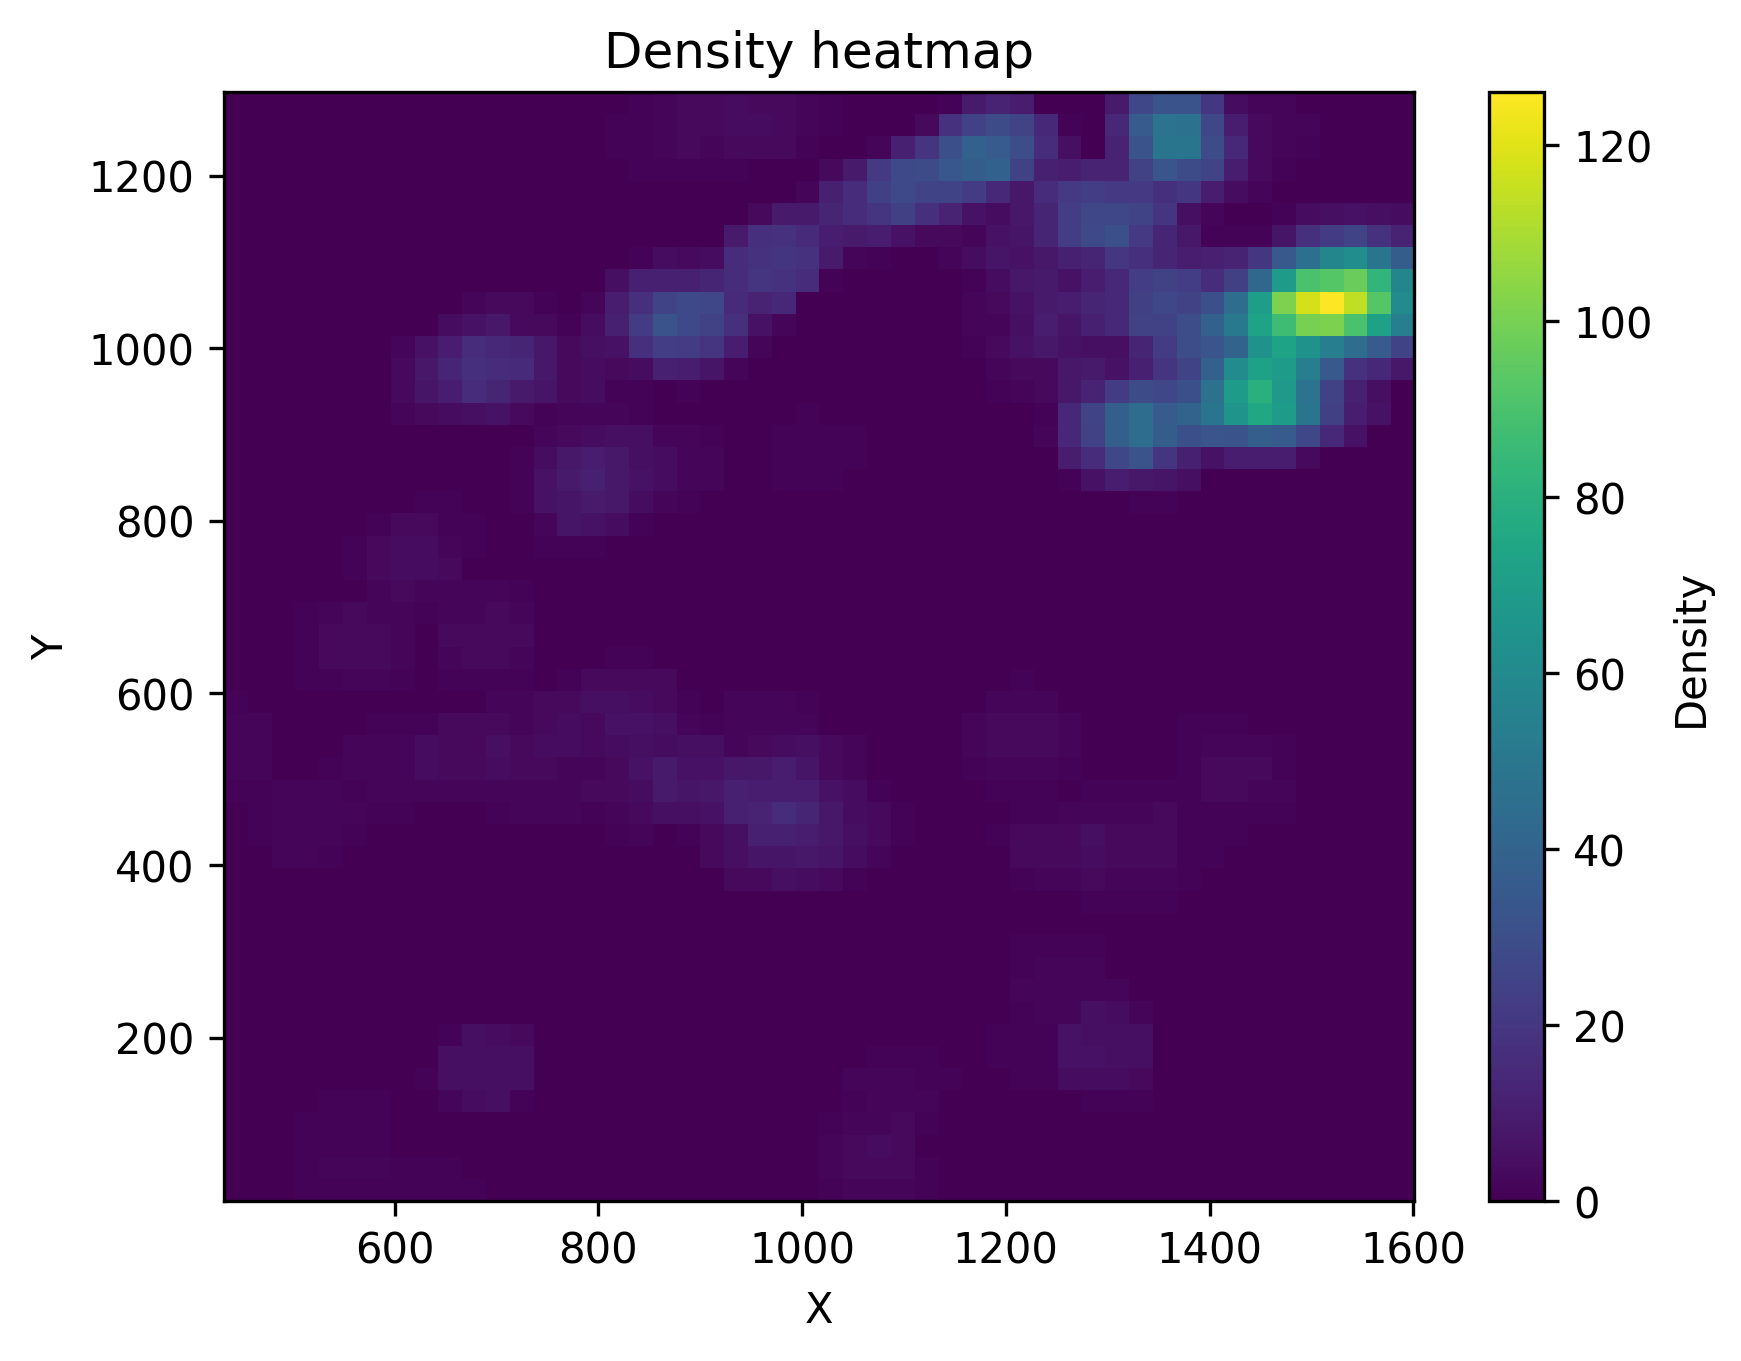
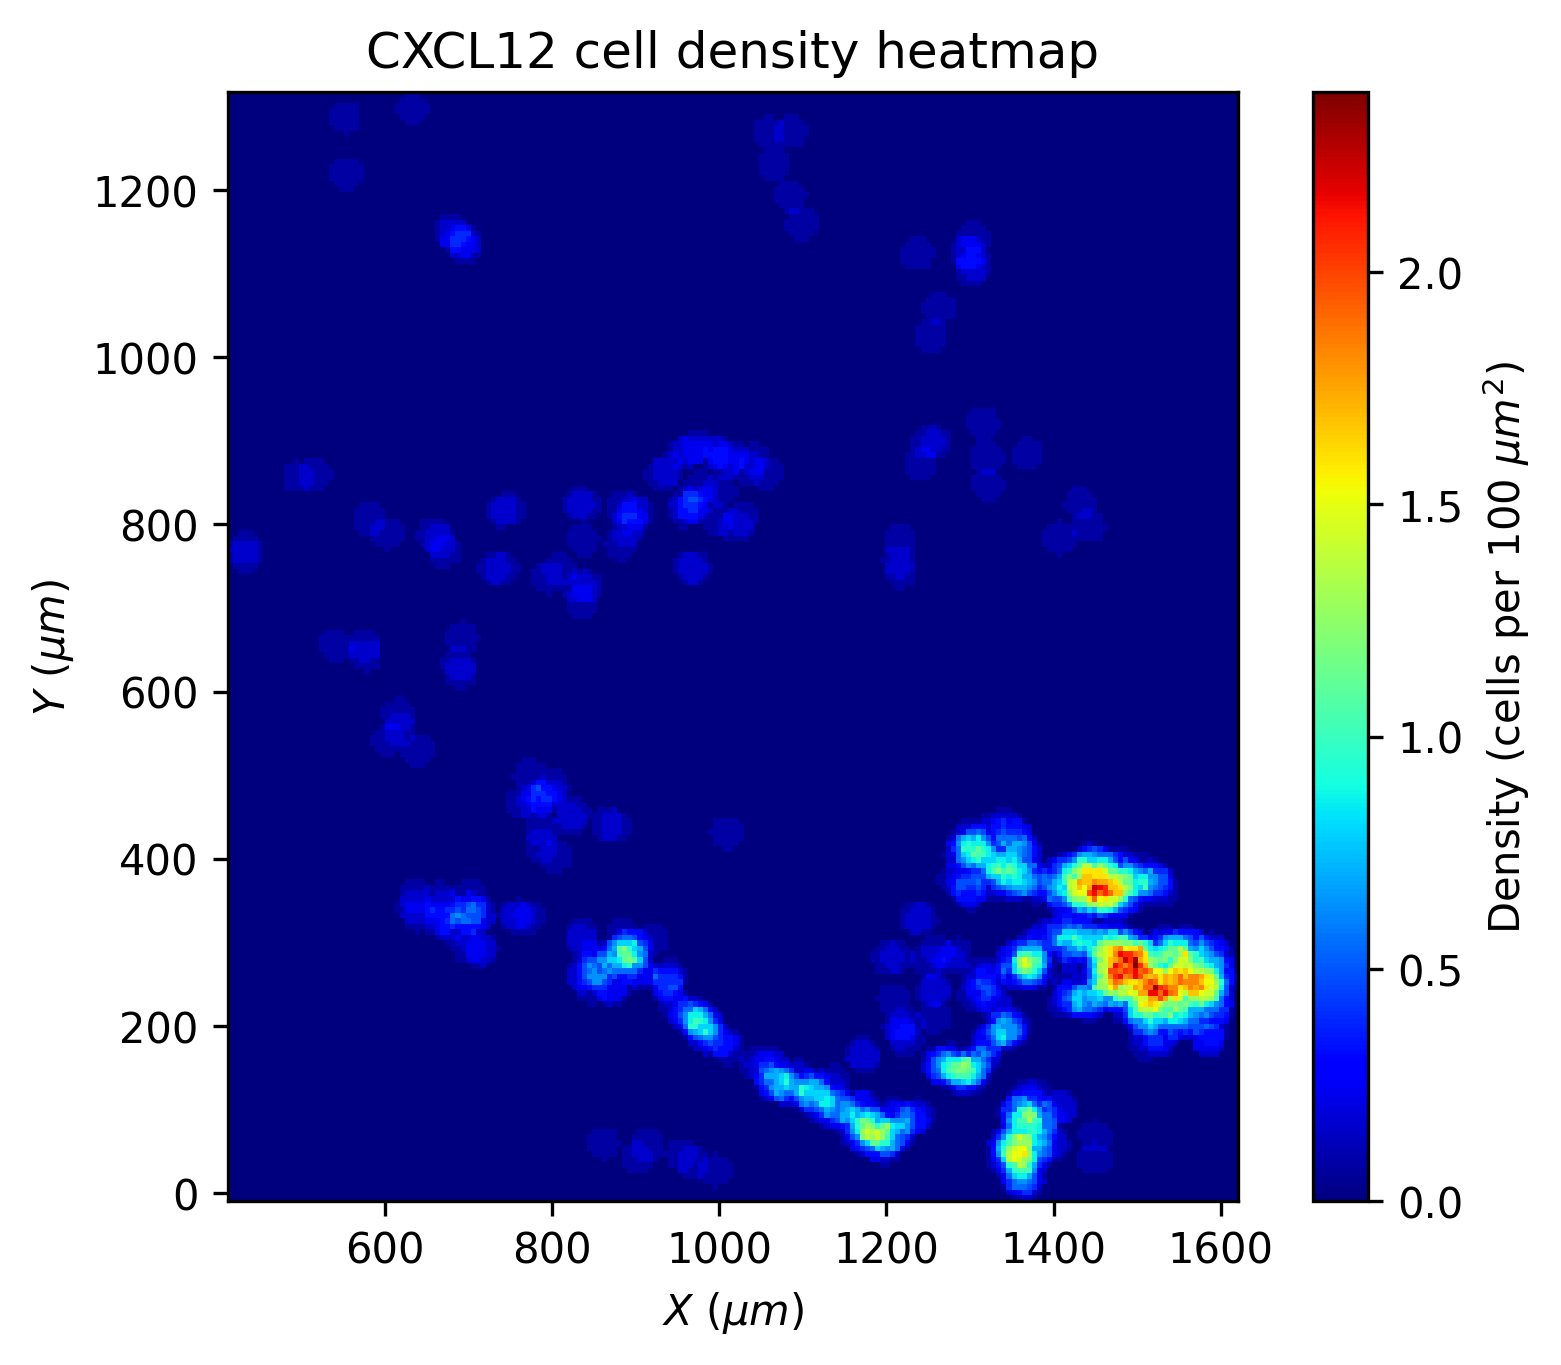
updated heatmaps

diff --git a/clustering_analysis.py b/clustering_analysis.py
@@ -229,7 +229,7 @@ def sample_points_in_region(region, n_points, sep_min, max_attempts=100000):
 # -------------------------
 # Run CSR simulation
 # -------------------------
-def csr_simulation(points, n_sim=10, k=5, buffer_radius=5.0, sep_min=0, fname=None):
+def csr_simulation(points, n_sim=10, k=5, buffer_radius=15.0, sep_min=0, fname=None):
     n = len(points)
 
     # observed statistic
@@ -250,6 +250,8 @@ def csr_simulation(points, n_sim=10, k=5, buffer_radius=5.0, sep_min=0, fname=No
     plt.scatter(sim_pts[:, 0], sim_pts[:, 1], s=5, label="CSR", alpha=0.6)
     plt.legend()
     plt.title("Real vs CSR point patterns")
+    plt.xlabel(r"$X \ (\mu m)$")
+    plt.ylabel(r"$Y \ (\mu m)$")
     plt.axis("equal")
     plt.savefig(fname[:-4] + '_simulated.png')
     plt.close()
@@ -363,12 +365,25 @@ def analyze_clark_evans(points, n_regions=3):
 # -------------------------
 # Build grid
 # -------------------------
-def make_grid(points, n_cells=100):
+def make_grid(points, n_cells=100, margin=0):
     xmin, ymin = points.min(axis=0)
     xmax, ymax = points.max(axis=0)
 
-    x_edges = np.linspace(xmin, xmax, n_cells + 1)
-    y_edges = np.linspace(ymin, ymax, n_cells + 1)
+    x_edges = np.linspace(xmin-margin, xmax+margin, n_cells + 1)
+    y_edges = np.linspace(ymin-margin, ymax+margin, n_cells + 1)
+    # Adding a 20 unit margin so features don't get cut off
+
+    return x_edges, y_edges
+
+def make_equal_axis_grid(points, target_n_cells=100, margin=0):
+    xmin, ymin = points.min(axis=0)
+    xmax, ymax = points.max(axis=0)
+
+    nx = target_n_cells * (xmax - xmin)/(ymax - ymin)
+
+    x_edges = np.linspace(xmin-margin, xmax+margin, int(nx) + 1)
+    y_edges = np.linspace(ymin-margin, ymax+margin, int(target_n_cells**2/nx) + 1)
+    # Adding a 20 unit margin so features don't get cut off
 
     return x_edges, y_edges
 
@@ -389,23 +404,15 @@ def grid_centers(x_edges, y_edges):
 # -------------------------
 # Density calculation
 # -------------------------
-def compute_density(points, centers, tol=None):
+def compute_density(points, centers, tol):
     tree = cKDTree(points)
+    # count points within radius tol of each pixel center
+    counts = []
+    for c in centers:
+        neighbors = tree.query_ball_point(c, tol)
+        counts.append(len(neighbors)/(np.pi*tol**2/100))
 
-    if tol is None:
-        # simple binning (count points per nearest pixel)
-        # assign each point to nearest center
-        _, idx = tree.query(centers, k=1)
-        # NOTE: this is not ideal for binning; better use histogram2d below
-        raise ValueError("Use histogram2d for simple counts")
-    else:
-        # count points within radius of each pixel center
-        counts = []
-        for c in centers:
-            neighbors = tree.query_ball_point(c, tol)
-            counts.append(len(neighbors))
-
-        return np.array(counts)
+    return np.array(counts)
 
 
 # -------------------------
@@ -433,7 +440,7 @@ def save_grid(x_edges, y_edges, values, out_path):
             rows.append({
                 "X_center": x,
                 "Y_center": y,
-                "density": values[i, j]
+                "Density (cells per 100 um^2)": values[i, j]
             })
 
     df = pd.DataFrame(rows)
@@ -445,16 +452,17 @@ def save_grid(x_edges, y_edges, values, out_path):
     extent = [x_edges[0], x_edges[-1], y_edges[0], y_edges[-1]]
 
     plt.imshow(
-        df['density'].to_numpy().reshape((len(x_edges) - 1, len(y_edges) - 1)),
-        origin='lower',
+        df['Density (cells per 100 um^2)'].to_numpy().reshape((len(x_edges) - 1, len(y_edges) - 1)),
+        origin='upper',
         extent=extent,
-        aspect='auto'
+        aspect='equal',
+        cmap='jet'
     )
 
-    plt.colorbar(label="Density")
-    plt.xlabel("X")
-    plt.ylabel("Y")
-    plt.title("Density heatmap")
+    plt.colorbar(label=r"Density (cells per 100 $\mu m^2$)")
+    plt.xlabel(r"$X \ (\mu m)$")
+    plt.ylabel(r"$Y \ (\mu m)$")
+    plt.title("CXCL12 cell density heatmap")
 
     plt.savefig('images' + out_path[4:-4] + '.png', dpi=300, bbox_inches='tight')
     plt.close()
@@ -464,8 +472,9 @@ def analyse_files(target_directory):
     for file in target_directory.files:
         if file.type == 'csv' and 'analysed' not in file.path:
             df = pd.read_csv(file.path)
-            df.index = df[' ']
-            df.drop(columns=[' '], inplace=True)
+            if ' ' in df.columns:
+                df.index = df[' ']
+                df.drop(columns=[' '], inplace=True)
 
             coords = df[['X', 'Y']].values
             tree = cKDTree(coords)
@@ -485,7 +494,7 @@ def analyse_files(target_directory):
             df['5 nearest neighbour IDs'] = list(indices)
             df['Mean distance to 2 nearest neighbours'] = dists[:,0:2].mean(axis=1)
             df['Mean distance to 5 nearest neighbours'] = dists.mean(axis=1)
-            df['Density based on 5nn'] = 1/df['Mean distance to 5 nearest neighbours']
+            df['Local density (cells / 100 um^2)'] = 1/df['Mean distance to 5 nearest neighbours']
 
             # # Global mean
             # global_mean_2nn = df['Mean distance to 2 nearest neighbours'].mean()
@@ -494,7 +503,7 @@ def analyse_files(target_directory):
             # Optional: mean pairwise distance (vectorised)
             diff = coords[:, None, :] - coords[None, :, :]
             pairwise_dists = np.sqrt((diff ** 2).sum(axis=2))
-            min_dist = pairwise_dists.min()
+            min_dist = 15 # diameter of stromal cell is roughly 15 um
             mean_pairwise = pairwise_dists.sum(axis=1) / (len(df) - 1)
             std_pairwise = None
             df['Mean pairwise distance'] = mean_pairwise
@@ -507,7 +516,8 @@ def analyse_files(target_directory):
                 points,
                 n_sim=30,
                 k=2,
-                buffer_radius=15.0,
+                buffer_radius=60.0, # Roughly 8x radius of stromal cell.
+                # This means there's a potentially much larger area for the CSR - extra unlikely to report significant dispersion
                 sep_min=min_dist,
                 fname=file.path
             )
@@ -522,10 +532,10 @@ def analyse_files(target_directory):
 
 
             # Heatmap of density
-            n_cells = 50  # 100x100 = 10,000 pixels
-            tol = 50.0      # tolerance radius (set None for raw counts)
+            target_n_cells = 200  # resulting map will have ~target_n_cells^2 pixels.
+            tol = 20.0   # neighbourhood radius to find cells in, must be set
 
-            x_edges, y_edges = make_grid(points, n_cells)
+            x_edges, y_edges = make_grid(points, target_n_cells, margin=20)
             centers, shape = grid_centers(x_edges, y_edges)
 
             if tol is None:
@@ -534,6 +544,7 @@ def analyse_files(target_directory):
                 counts = compute_density(points, centers, tol)
                 density = counts.reshape(shape)
 
+            # Pixelated heatmap of the density data from the original CSV
             save_grid(x_edges, y_edges, density, f"{file.path[:-4]}_analysed_density_map.csv")
 
 
@@ -580,6 +591,6 @@ def make_summary_table(target_directory):
 
 if __name__ == '__main__':
     target_directory = Folder('data')
-    # analyse_files(target_directory)
-    make_summary_table(target_directory)
+    analyse_files(target_directory)
+    # make_summary_table(target_directory)
 

diff --git a/plotting.py b/plotting.py
@@ -181,6 +181,19 @@ def plotly_2lines(df1, x1, y1, df2, x2, y2, colours=('red', 'blue')):
 
 
 #%%
+def plotly_boxplot(data_dict, y_name):
+	'''
+	Specify category name for x axis as key to df_dict, with array of y as corresponding value
+	'''
+	pass
+
+
+#%%
+def plotly_cdf_curve(df, x, cmap):
+	pass
+
+
+#%%
 def demo_plot(df, x, y, c, lookup_df, colourscheme='Viridis'):
 	'''
 	Plot scatterpoints on a graph for x and y, color points by c and show how close they are to the ground truth
